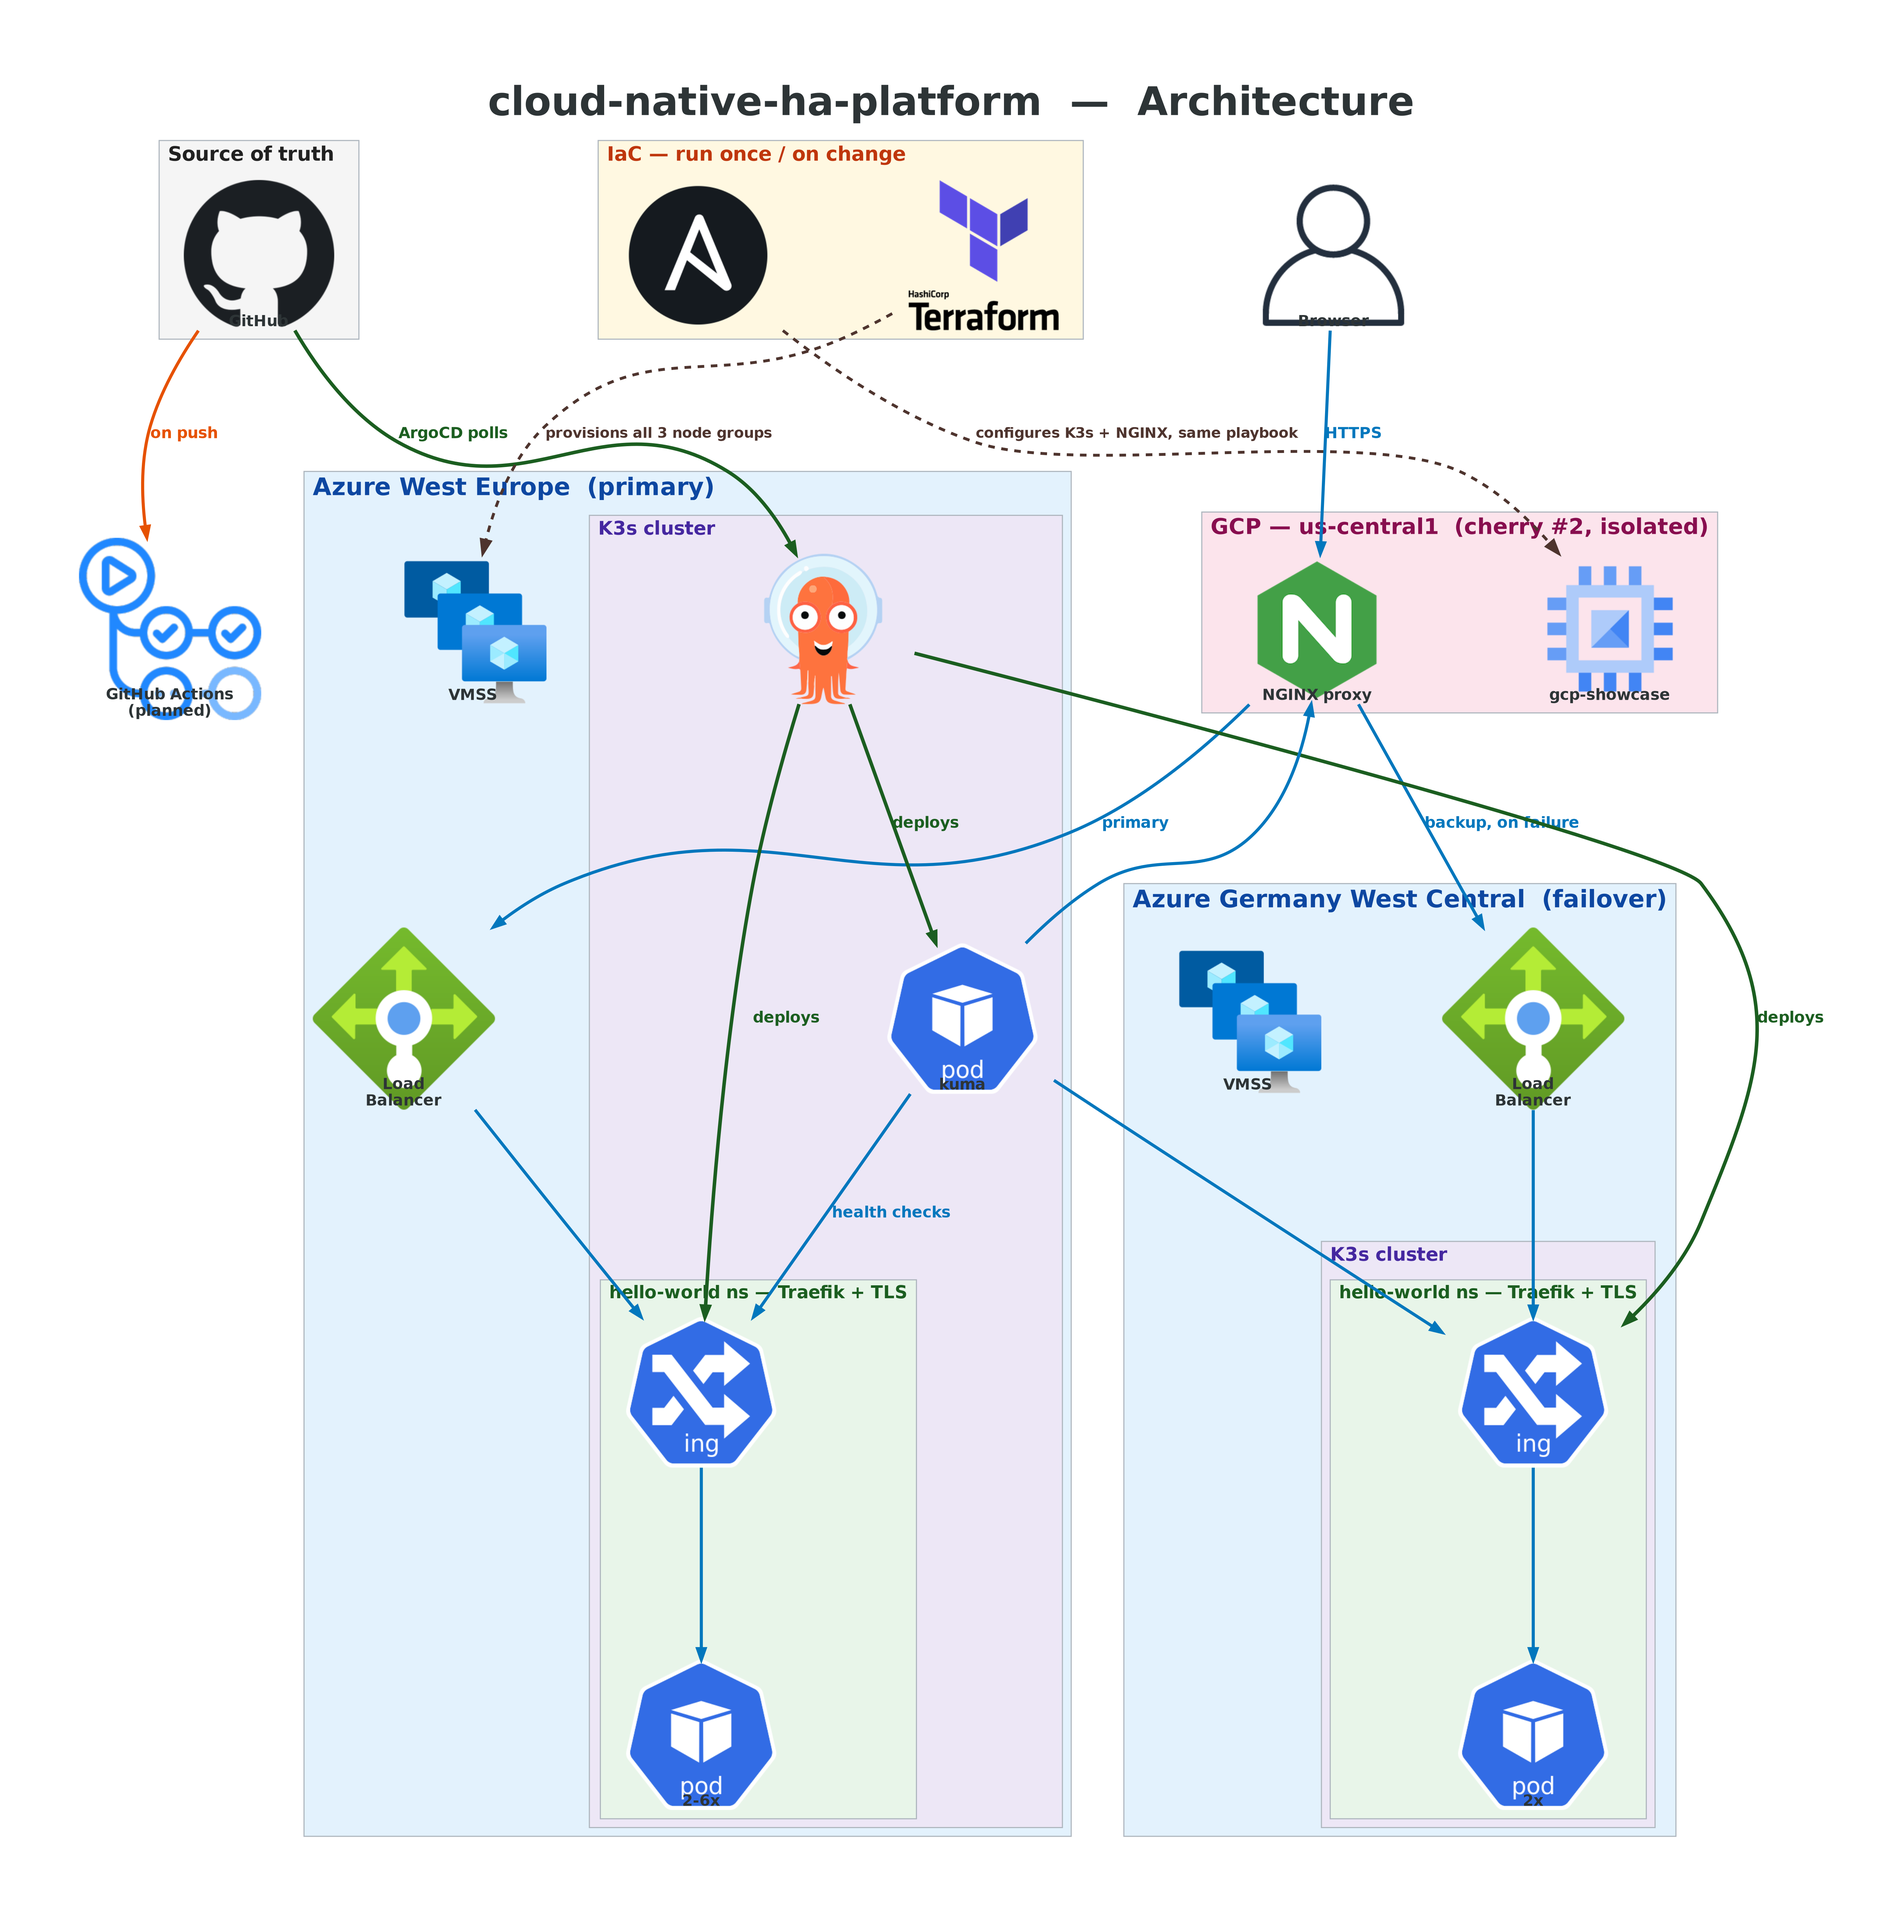
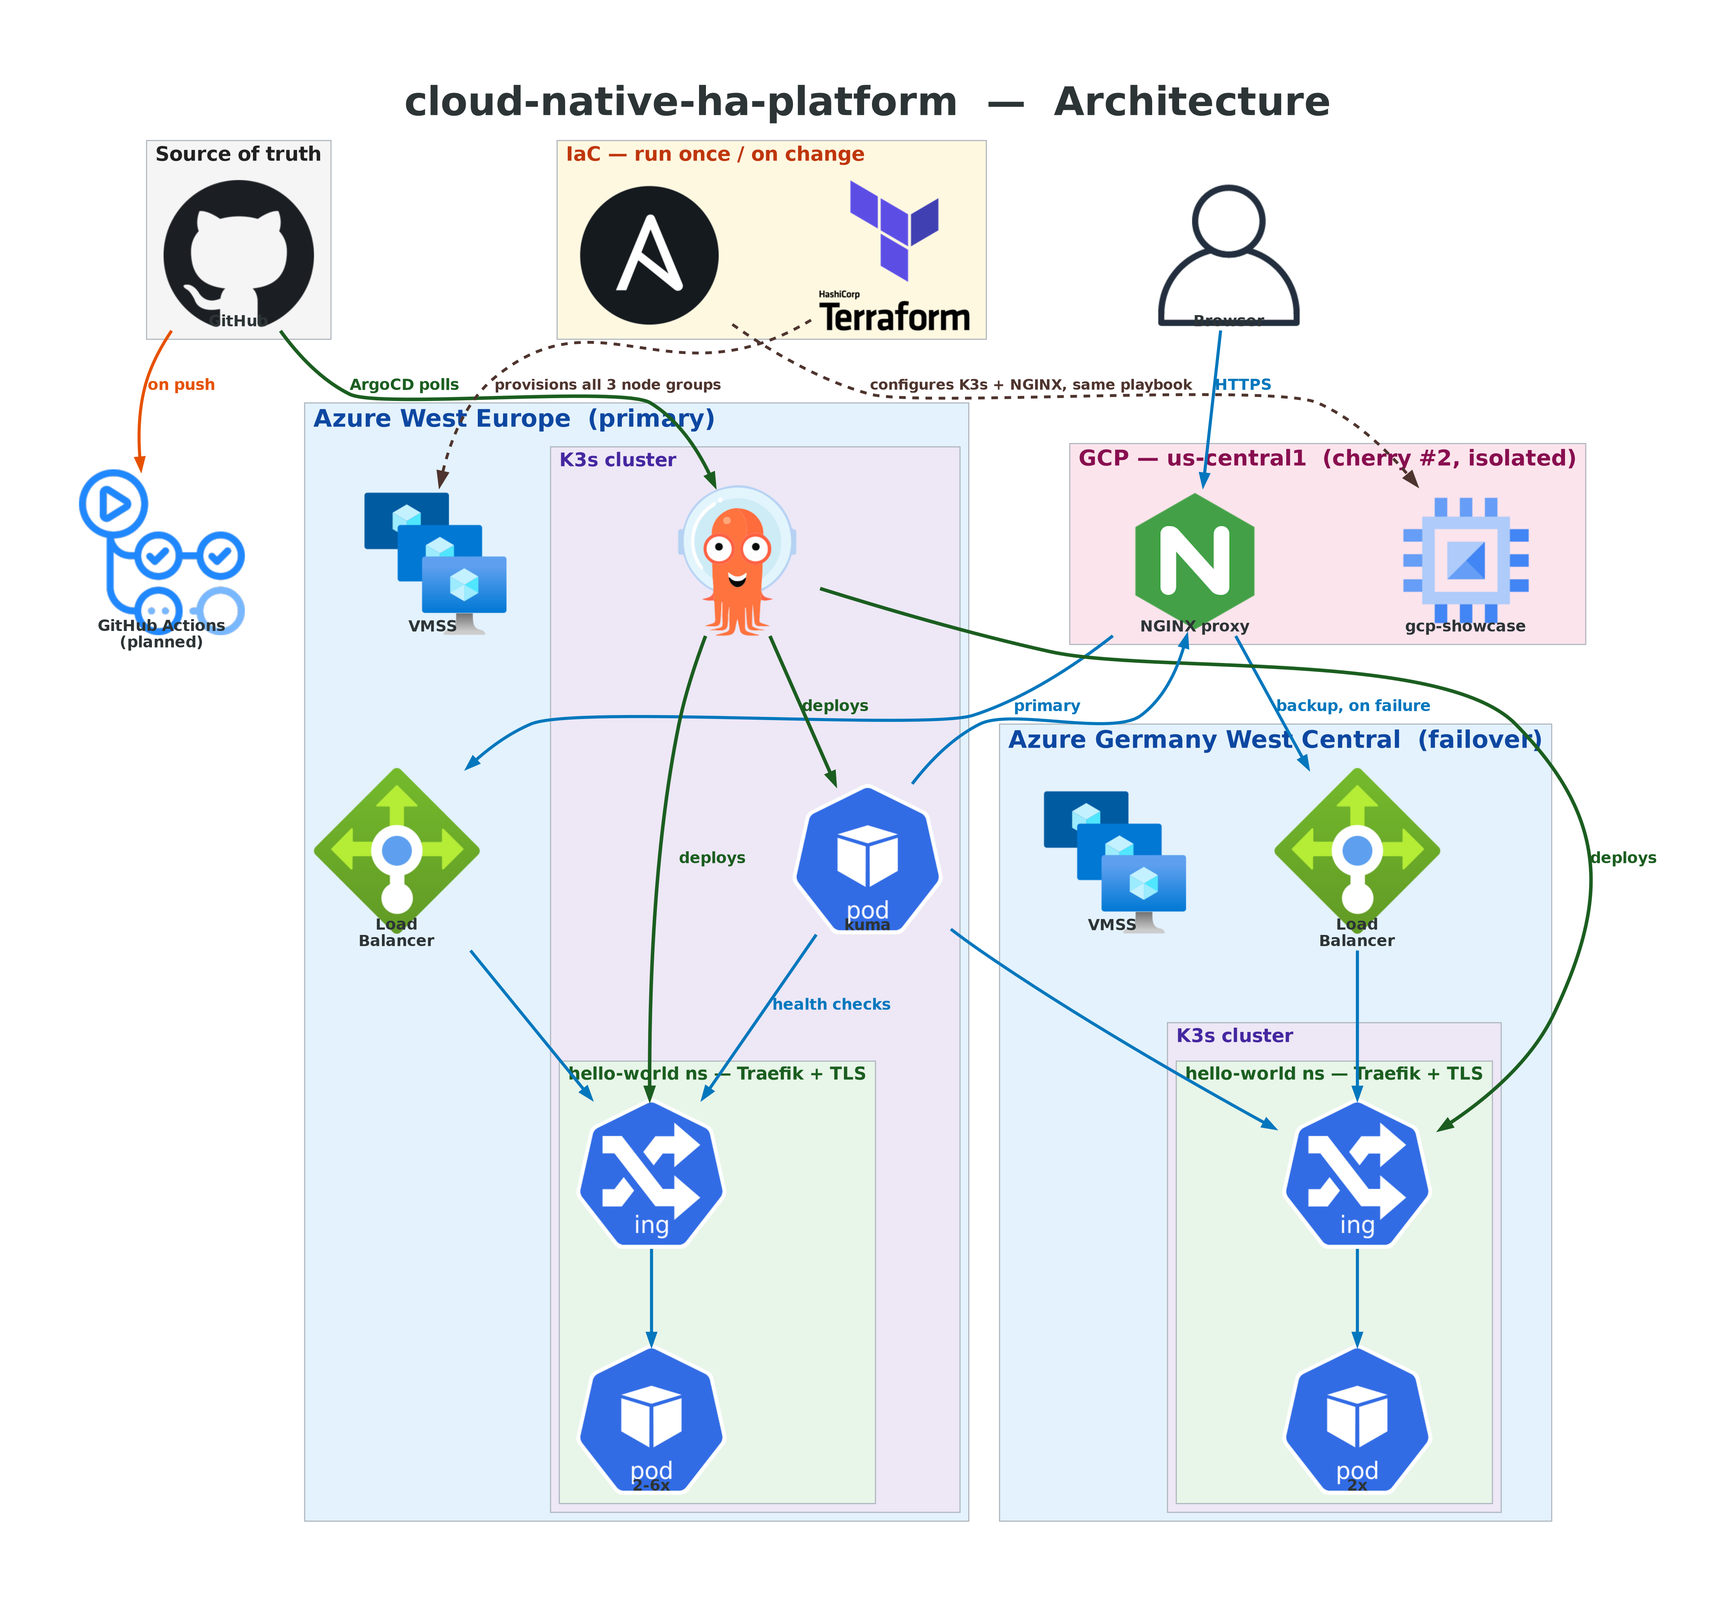
Shrink the architecture diagram's overall canvas
The two Azure regions were already side by side; the actual problem was
excess spacing (ranksep 2.4, node height 3.6) padding out every rank,
plus a lot of dead space around the GCP cluster. Tightened ranksep
(2.4 -> 1.2), nodesep (1.3 -> 1.0), and node height (3.6 -> 2.5).
Canvas dropped from 5298x5356 to 4832x4478, about 16% shorter, same
layout and same information, just less wasted space per rank.

Tried a minlen fix for the Browser node's label getting cut through by
its own outgoing arrow; reverted it, it pushed the canvas back up to
5165px tall and knocked another node out of alignment without actually
fixing the overlap. Left as a known minor cosmetic issue.

Changed region(s): [[0.0312, 0.031, 0.9688, 0.9623], [0.3125, 0.5898, 0.5, 0.776], [0.2812, 0.6208, 0.3125, 0.6519]]

diff --git a/docs/architecture_diagram.py b/docs/architecture_diagram.py
@@ -30,8 +30,8 @@ OUT = os.path.dirname(os.path.abspath(__file__))
 NODE_ATTR = {
     "fontsize": "14",
     "fontname": "Helvetica-Bold",
-    "width": "2.3",
-    "height": "3.6",
+    "width": "2.1",
+    "height": "2.5",
     "fixedsize": "false",
     "labelloc": "b",
     "imagepos": "tc",
@@ -46,8 +46,8 @@ GRAPH_ATTR = {
     "fontname": "Helvetica-Bold",
     "bgcolor": "white",
     "pad": "1.0",
-    "nodesep": "1.3",
-    "ranksep": "2.4",
+    "nodesep": "1.0",
+    "ranksep": "1.2",
     "splines": "spline",
     "dpi": "220",
 }
